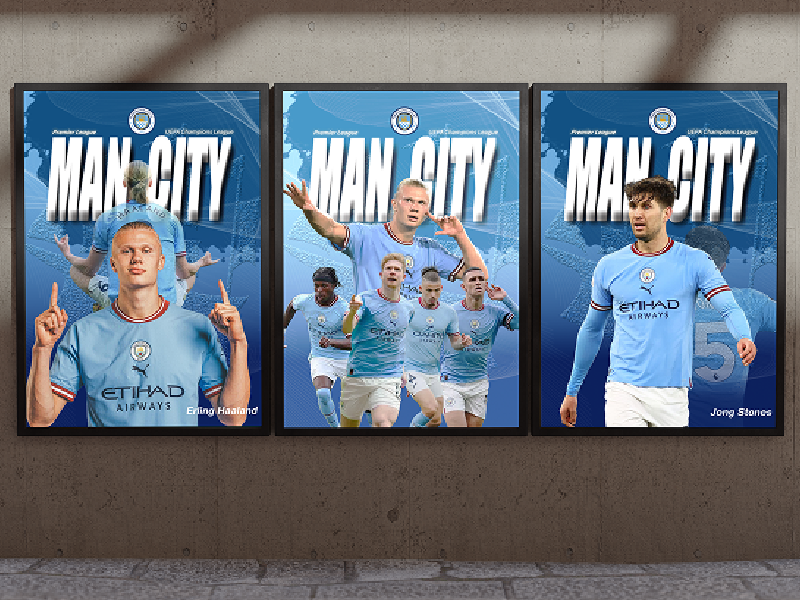
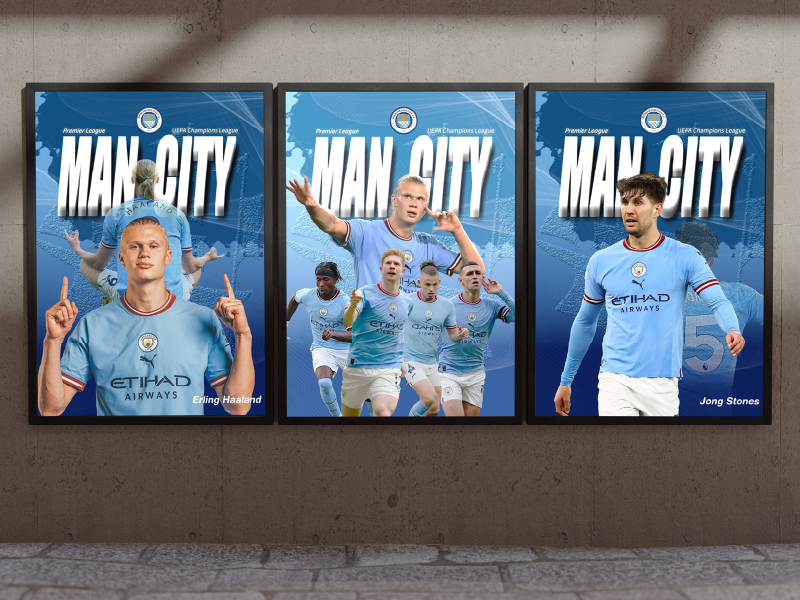
update

diff --git a/src/app/project/can-mockup/page.tsx b/src/app/project/can-mockup/page.tsx
@@ -1,0 +1,96 @@
+import React from 'react';
+
+import Image from "next/image";
+import TopHeader from "@/components/TopHeader"
+import Footer from "@/components/Footer";
+
+const App: React.FC = () => {
+    return (
+        <>
+            <TopHeader />
+                     <section className='w-screen min-h-screen bg-[var(--primary-color)] flex pt-20 z-50 text-gray-950'>
+                <div className='bg-[var(--primary-color)] max-w-7xl w-screen m-auto flex flex-row flex-nowrap mt-20 z-50 gap-10 p-5 text-gray-950'>
+                    <div className='flex-auto max-w-xl text-gray-950'>
+                        <h1 className='text-2xl mb-2 font-bold'>The Can’s mockup - Caffi Go</h1>
+                        <p className='text-base mb-10'>The logo features a cup of hot coffee with the brand name printed inside a circular design. The steaming coffee cup symbolizes freshness and authenticity, representing a beverage made from real coffee beans for an enjoyable experience.</p>
+                        <p className='text-base mb-10'>Additionally, the design can incorporate different color schemes and icons to distinguish flavors while maintaining a consistent template. The color scheme is based on the characteristics of each flavor, and the icons include elements that visually represent those flavors.</p>
+                      
+                        
+
+
+                      
+                        <div className='flex-col flex justify-around gap-2 p-3 w-full max-w-xs border-2 rounded-md border-[var(--second-color)] bg-[#457b9d]  text-white'>
+                            <div className='flex-row flex justify-between'>
+                                <span className='font-bold'>Type: </span>
+                                <span>Individual</span>
+                            </div>
+                            <div className='flex-row flex justify-between'><span className='font-bold'>Year:</span> <span>2024</span></div>
+                            <div className='flex-row flex justify-between'><span className='font-bold'>Role:</span> <span>Designer</span></div>
+                            <div className='flex-row flex justify-between'><span className='font-bold'>Technologies:</span>
+                                <span className='flex-col flex text-right gap-2'>
+                                    Adobe Photoshop<br />
+                                    Adobe Illustrator<br />
+                                    Design Thinking<br />
+                                    Research<br />
+                                </span></div>
+                        </div>
+
+                    </div>
+                    <div className='flex-auto flex flex-col gap-5'>
+                        <Image
+                            src="/project/project3/can-mockup.png"
+                            width={4744}
+                            height={3162}
+                            layout='responsive'
+                            alt="Can Mockup"
+                            className='max-h-screen'
+                        />
+                        <Image
+                            src="/project/project3/blackCoffeeFlavour.png"
+                            width={1924}
+                            height={1020}
+                            layout='responsive'
+                            alt="Black Coffee Flavour"
+                            className='max-h-screen'
+                        />
+                        <Image
+                            src="/project/project3/caramelLatteFlavour.png"
+                            width={1924}
+                            height={1020}
+                            layout='responsive'
+                            alt="CaramelLatteFlavour"
+                            className='max-h-screen'
+                        />
+                        <Image
+                            src="/project/project3/VanillaLatteFlavour.png"
+                            width={1924}
+                            height={1020}
+                            layout='responsive'
+                            alt="Vanilla Latte Flavour"
+                            className='max-h-screen'
+                        />
+                    </div>
+                </div>
+            </section>
+            <Footer />
+        </>
+    )
+}
+
+export default App;
+
+
+export const metadata = {
+    title: {
+        absolute: 'The Can’s mockup - Caffi Go',
+    },
+    keywords: ['Showcase of Adobe Photoshop\' CC ', 'Adobe Indesign\'s Showcase', 'Poster Showcase', 'BCIT D3'],
+    authors: [{ name: 'Kam Shing Lee, Timothy', url: 'https://www.thetimothylee.com' }],
+    creator: 'Timothy Lee',
+    publisher: 'Timothy Lee',
+    formatDetection: {
+        email: false,
+        address: false,
+        telephone: false,
+    },
+}

diff --git a/src/app/project/School-project-man-city-poster/page.tsx b/src/app/project/School-project-man-city-poster/page.tsx
@@ -8,14 +8,14 @@ const App: React.FC = () => {
     return (
         <>
             <TopHeader />
-                     <section className='w-screen min-h-screen bg-[var(--primary-color)] flex pt-20 z-50'>
-                <div className='bg-[var(--primary-color)] max-w-7xl w-screen m-auto flex flex-row flex-nowrap mt-20 z-50 gap-10 p-5'>
-                    <div className='flex-auto max-w-xl text-white'>
+                     <section className='w-screen min-h-screen bg-[var(--primary-color)] flex pt-20 z-50 text-gray-950'>
+                <div className='bg-[var(--primary-color)] max-w-7xl w-screen m-auto flex flex-row flex-nowrap mt-20 z-50 gap-10 p-5 text-gray-950'>
+                    <div className='flex-auto max-w-xl text-gray-950'>
                         <h1 className='text-2xl mb-2 font-bold'>Man City Football Club Team’s Poster Design</h1>
                         <p className='text-base mb-10'>Manchester City has been recognized as one of the most popular football clubs in the world, with fans spanning across the globe. The purpose of this project is to create a template that promotes the team's energy and dynamism, designed for display on signboards and as a poster available for purchase on their website.
                         </p>
                         <p className='text-base mb-10'>The design concept centers around using the brand's signature color as the primary element to reinforce its identity, while the boat symbol represents its rich history. Curved elements add a sense of movement and energy to the poster. The images are carefully selected from in-game captures and enhanced with filters to ensure a cohesive and visually appealing design.</p>
-                        <div className='flex-col flex justify-around gap-2 p-3 w-full max-w-xs border-2 rounded-md border-[var(--second-color)] bg-[#457b9d]'>
+                        <div className='flex-col flex justify-around gap-2 p-3 w-full max-w-xs border-2 rounded-md border-[var(--second-color)] bg-[#457b9d]  text-white'>
                             <div className='flex-row flex justify-between'>
                                 <span className='font-bold'>Type: </span>
                                 <span>Individual</span>
@@ -58,11 +58,11 @@ const App: React.FC = () => {
                             className='max-h-screen'
                         />
                         <Image
-                            src="/project/project1/image3.png"
-                            width={600}
-                            height={400}
+                            src="/project/project2/poster-mockup.png"
+                            width={3134}
+                            height={1912}
                             layout='responsive'
-                            alt="Man City Team Project"
+                            alt="Poster mockup"
                             className='max-h-screen'
                         />
                     </div>

diff --git a/src/components/ScrollTrigger/index.tsx b/src/components/ScrollTrigger/index.tsx
@@ -211,7 +211,7 @@ const App: React.FC<Props> = ({ }) => {
                             <h3 className='text-2xl mb-8'>Man City Poster Design</h3>
                             <p className='text-lg'>Manchester City has been recognized as one of the most popular football clubs in the world, with fans spanning across the globe. The purpose of this project is to create a template that promotes the team's energy and dynamism, designed for display on signboards and as a poster available for purchase on their website.</p>
 
-                            <LearnMoreButton />
+                            <LearnMoreButton callback={()=> router.push('/project/School-project-man-city-poster')} />
                         </div>
                     </div>
 
@@ -228,7 +228,7 @@ const App: React.FC<Props> = ({ }) => {
                             <h3 className='text-2xl mb-8'> Caffi Go's Can Mockup</h3>
                             <p className='text-lg'>GaffiGo is a new brand that offers a variety of beverages aimed at young people. This project involves creating a template for a series of real coffee beverages, including Caramel Latte, Black Coffee, and Vanilla Latte flavors.</p>
 
-                            <LearnMoreButton />
+                            <LearnMoreButton callback={()=>{router.push('/project/can-mockup')}} />
                         </div>
                     </div>
 
